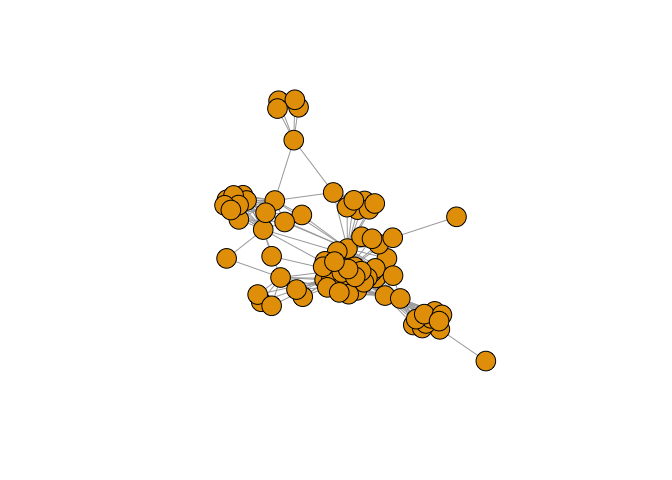
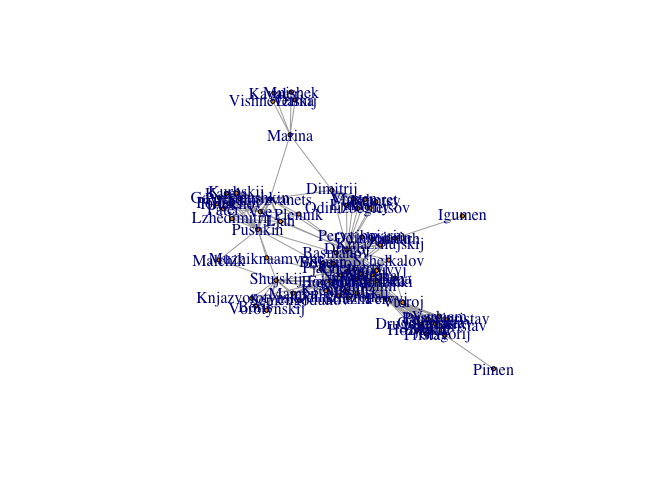
commit

Changed region(s): [[0.2812, 0.1875, 0.7812, 0.7812]]

diff --git a/Calculating_stuff_in_plays/Visualization.md b/Calculating_stuff_in_plays/Visualization.md
@@ -79,7 +79,7 @@ boris_godunov <- boris_godunov[, c(1, 3, 4)]
 head(boris_godunov)
 ```
 
-    ##           Source        Target weight
+    ##           Source        Target Weight
     ## 1         Bojare    Malchishka      1
     ## 2        Plennik   Samozvanets      1
     ## 3     Malchishki          Odin      1
@@ -95,25 +95,31 @@ class(net)
     ## [1] "igraph"
 
 ``` r
-E(net)$weight = boris_godunov$weight
-E(net)
+E(net)$weight <- boris_godunov$Weight
+clust <- cluster_optimal(net)
+clust
 ```
 
-    ## + 385/385 edges (vertex names):
-    ##  [1] Bojare        --Malchishka       Plennik       --Samozvanets     
-    ##  [3] Malchishki    --Odin             Muzhiknaamvone--Pushkin         
-    ##  [5] Grigorij      --Pervyjpristav    Nischij       --Odiniznaroda    
-    ##  [7] Schelkalov    --Tretij           Ljah          --Vse             
-    ##  [9] Kurbskij      --Pushkin          Feodor        --Tretij          
-    ## [11] Boris         --Knjazvorotynskij Malchishki    --Drugoj          
-    ## [13] Poet          --Vse              Samozvanets   --Vse             
-    ## [15] Staruha       --Tretij           Jurodivyj     --Tretij          
-    ## [17] Jurodivyj     --Chetvertyj       Semengodunov  --Tsar            
-    ## [19] Gavrilapushkin--Vse              Poet          --Gavrilapushkin  
-    ## + ... omitted several edges
+    ## IGRAPH clustering optimal, groups: 6, mod: 0.52
+    ## + groups:
+    ##   $`1`
+    ##    [1] "Bojare"        "Malchishki"    "Schelkalov"    "Drugoj"       
+    ##    [5] "Staruha"       "Jurodivyj"     "Chetvertyj"    "Basmanov"     
+    ##    [9] "Malchishka"    "Odiniznih"     "Odin"          "Igumen"       
+    ##   [13] "Bojarin"       "Narod"         "Baba"          "Knjazshujskij"
+    ##   [17] "Pervyjbojarin" "Patriarh"      "Pjatyj"        "Tretij"       
+    ##   [21] "Tsar"          "Odinbojarin"   "Shestoj"      
+    ##   
+    ##   $`2`
+    ##    [1] "Plennik"        "Muzhiknaamvone" "Ljah"           "Kurbskij"      
+    ##   + ... omitted several groups/vertices
 
 ``` r
-plot(net, edge.arrow.size=.4,vertex.label=NA)
+plot(net,
+     vertex.size=3,
+     edge.arrow.size=.6,
+     vertex.label=V(net)$name,
+     edge.width=E(net)$weight)
 ```
 
 ![](Visualization_files/figure-markdown_github/unnamed-chunk-5-1.png)
